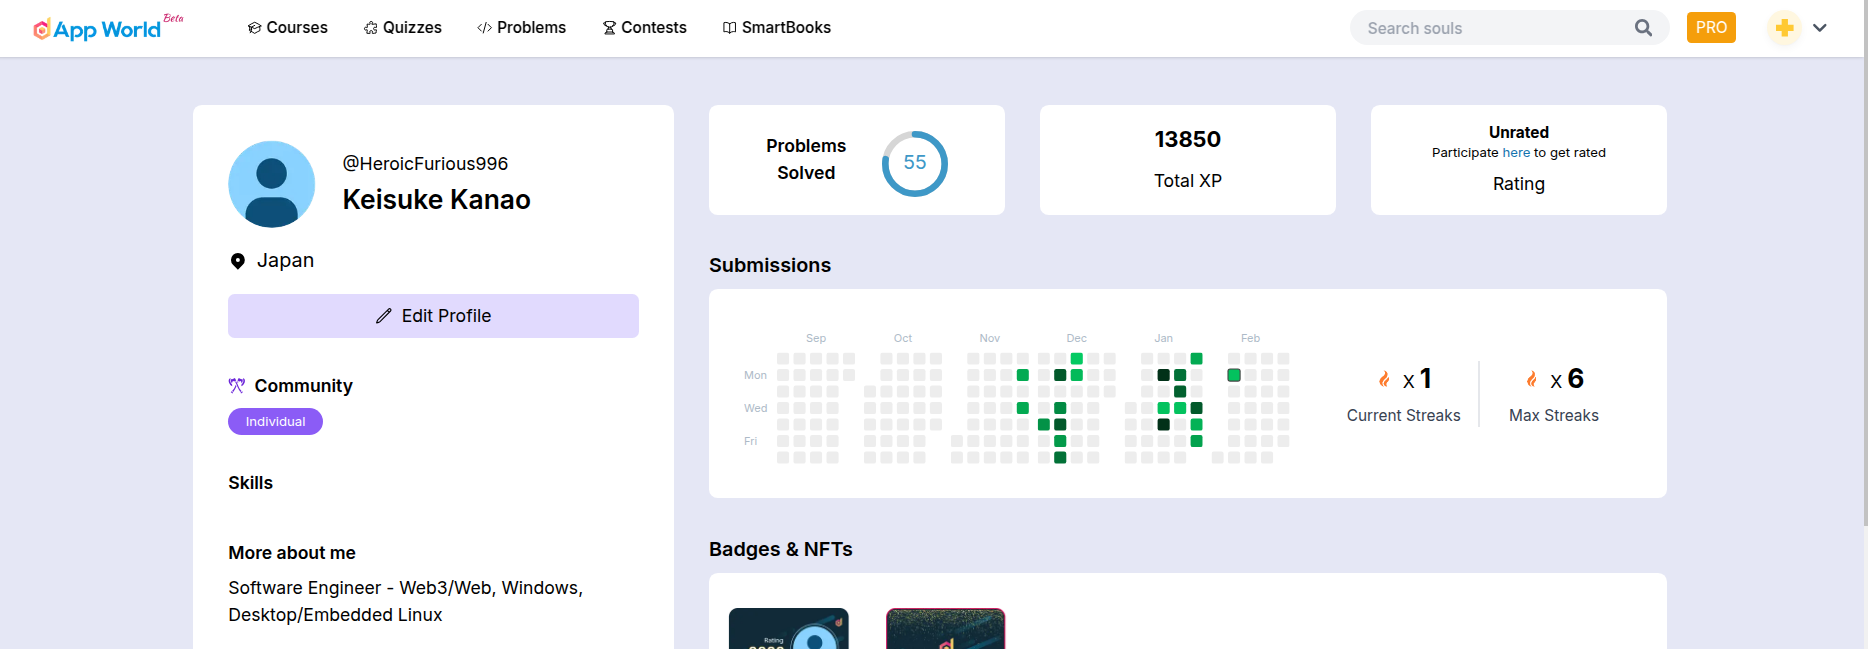
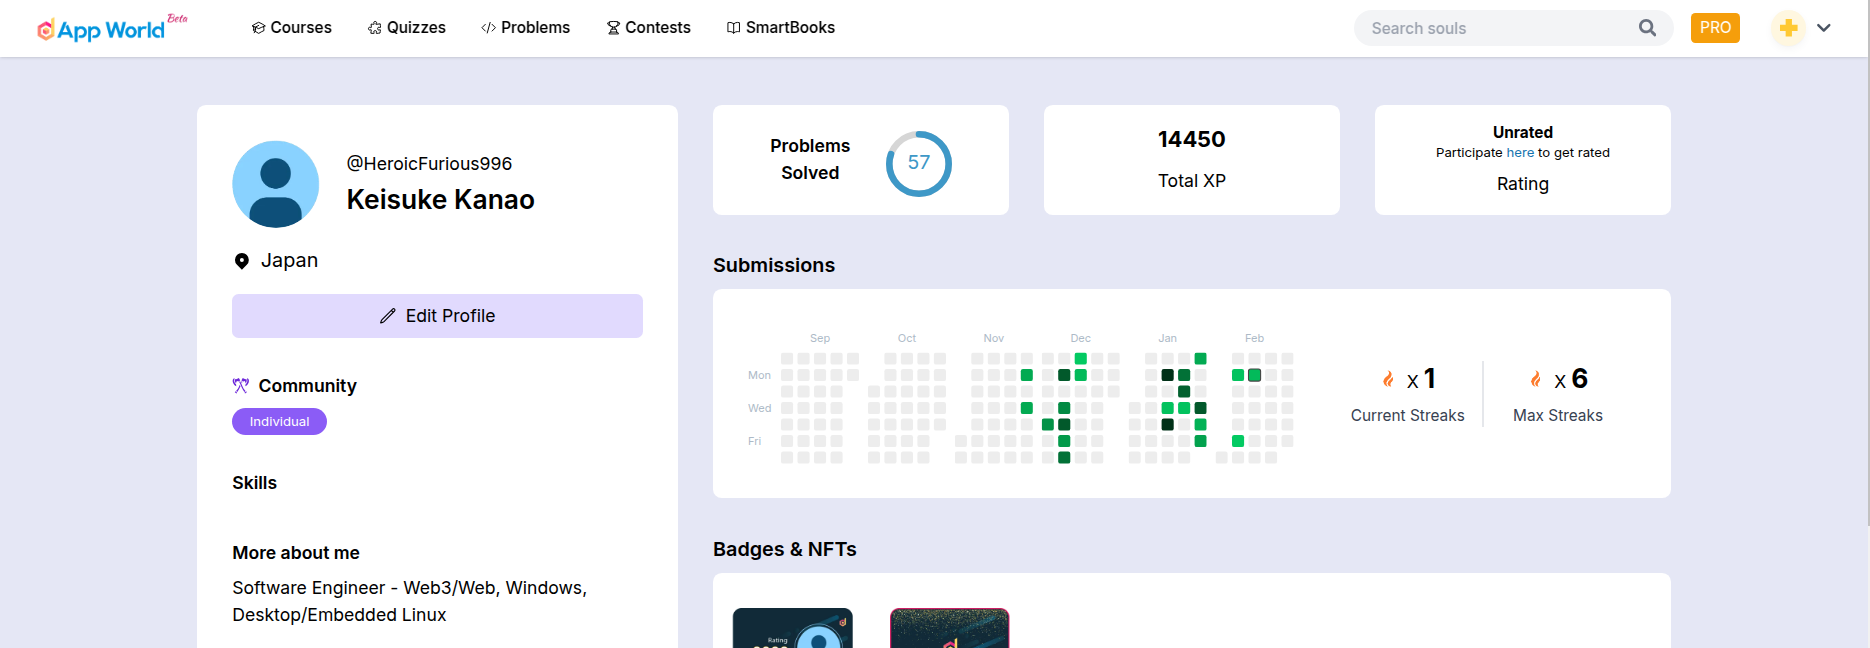
Update the progress state

diff --git a/README.md b/README.md
@@ -2,7 +2,7 @@
 I've been practicing Solidity programming by solving [problems from DApp World](https://dapp-world.com/problems).
 
 ## Number of solved problems  
-As of now (3 Feb 2025), I solved 57 out of more than 59 problems, however, the site shows 55 for unknown reasons. 
+As of now (7 Feb 2025), I solved 59 out of more than 59 problems, however, the site shows 57 for unknown reasons. 
   
 ![](./number-of-solved-problems.png)
 
@@ -68,3 +68,6 @@ Below is the list of solved problmes in chronological order.
 |[35.Team Wallet - Easy](https://dapp-world.com/problem/team-wallet-easy/problem)|30 Jan 2025 22:59:35|At the time when my solution was passed, I was the only one who passed all test cases (and thus got the best score).|
 |[34.Team Wallet - Hard](https://dapp-world.com/problem/team-wallet-hard/problem)|31 Jan 2025 14:36:06|At the time when my solution was passed, I was the only one who passed all test cases (and thus got the best score).|
 |[31.Blockchain Gaming Ecosystem](https://dapp-world.com/problem/blockchain-gaming-ecosystem/problem)|3 Feb 2025 21:13:57|At the time when my solution was passed, I was at the top rank with all test cases passed and less gas consumption.|
+|[29.Solah Parchi Thap - Easy](https://dapp-world.com/problem/solah-parchi-thap-easy/problem)|7 Feb 2025 19:50:21|At the time when my solution was passed, I was at the top rank with all test cases passed and less gas consumption.|
+|[28.Solah Parchi Thap - Hard](https://dapp-world.com/problem/solah-parchi-thap-hard/problem)|10 Feb 2025 19:30:33|At the time when my solution was passed, I was the only one who passed all test cases (and thus got the best score).|
+
